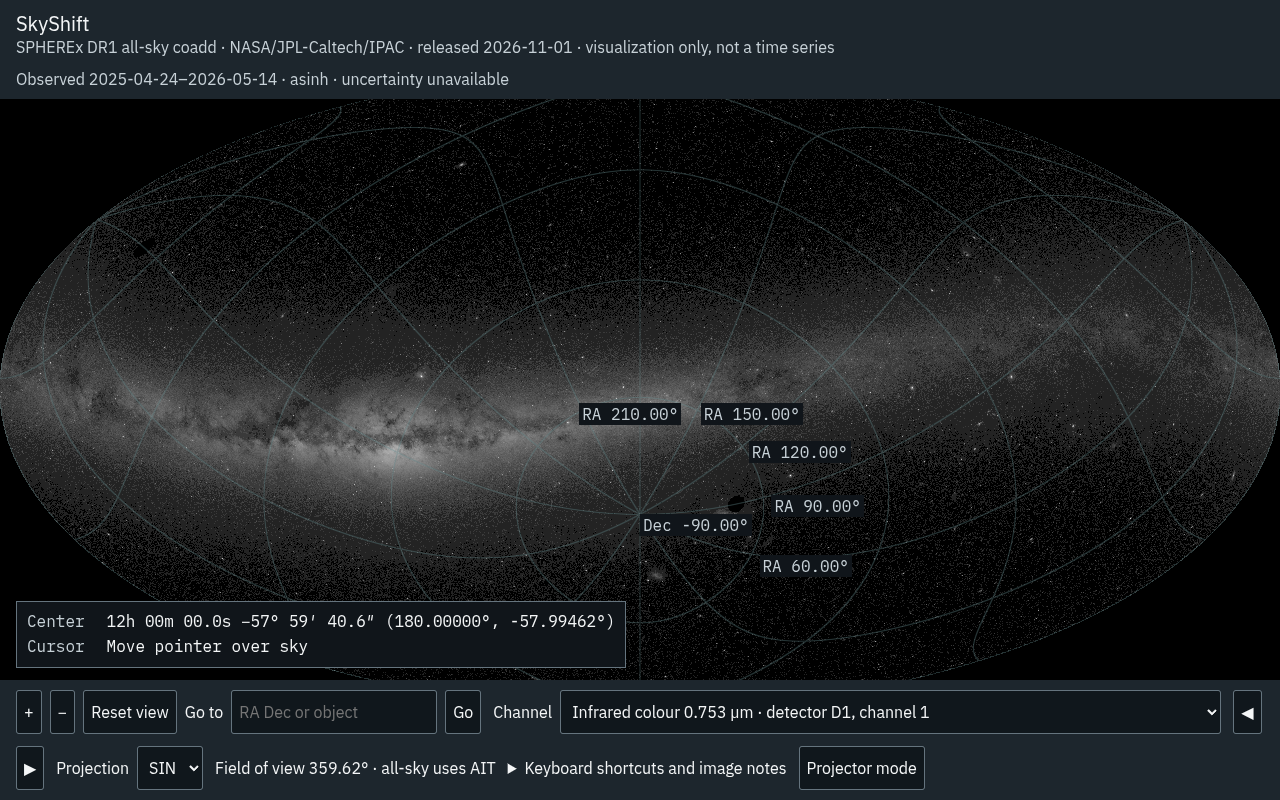
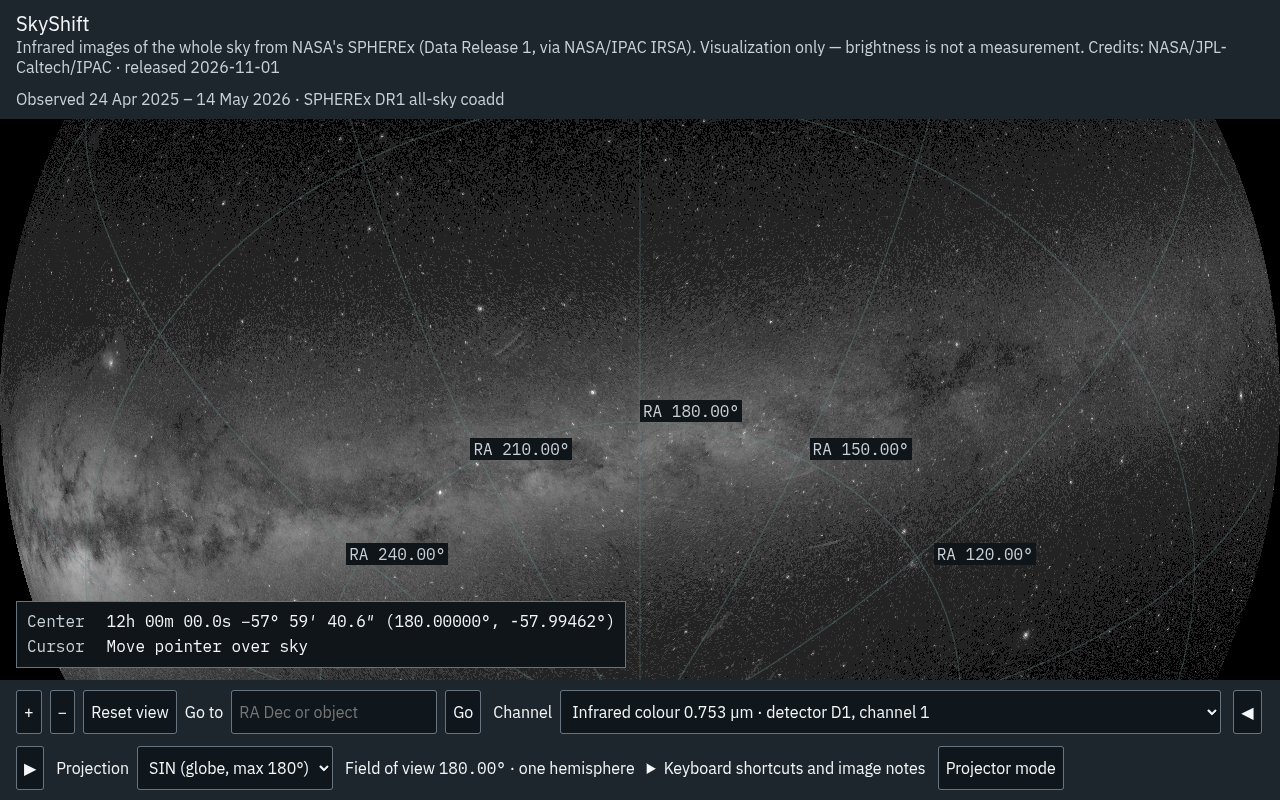
docs: record round-3 navigation behaviour and GPU perf
Update ADR 0007, perf.md (0 duplicate tile URLs, p95 ~16.8 ms) and review screenshots.

diff --git a/docs/adr/0007-motor-cielo-webgl2.md b/docs/adr/0007-motor-cielo-webgl2.md
@@ -1,7 +1,12 @@
 # 0007 · Motor de cielo WebGL2
 
-- Estado: implementación inicial, pendiente de revisión científica y de rendimiento.
+- Estado: navegación ronda 3 (proyección fija, arrastre con punto bajo el puntero, zoom anclado, flyTo, inercia).
 - Contexto: la ficha 0003 requiere HiPS SPHEREx DR1 sin código de Aladin y con una fuente intercambiable.
-- Decisión: usar TypeScript sin dependencias de ejecución en el motor, con núcleo funcional, puertos y adaptadores; React solo presenta el visor. Un arreglo de texturas WebGL2 R8 se indexa por celda HEALPix NESTED y usa padres cuando no está disponible el hijo. El bitmap se cierra tras subirlo; los PNG comprimidos se conservan durante la sesión para evitar descargas repetidas tras el desalojo. IRSA y el proxy implementan el puerto de imágenes cancelables.
-- Extensión: añadir una fuente implementando `TileSource`; añadir una estrategia al registro de proyecciones; parametrizar y verificar metadatos antes de utilizar otra encuesta. La conexión del registro al shader y los parámetros para encuestas distintas aún no están terminados.
-- Consecuencias y límites: ang2pix se comparó con un millón de puntos Astropy; centros y vecinos se compararon para los 12.288 píxeles de orden 5, y esquinas para diez píxeles. SIN no cubre todo el cielo: para FOV mayor de 180° se utiliza temporalmente AIT. La orientación este-izquierda se contrastó con WCS independiente. Faltan cobertura completa de esquinas y órdenes inferiores, selección visible exhaustiva, inercia, prueba de restauración de contexto y revisión de paridad visual. La memoria de PNG comprimidos no tiene límite durante la sesión. El pellizco está implementado pero todavía no se ha probado en dispositivo táctil. Las capturas y métricas no demuestran precisión científica ni paridad visual completa.
+- Decisión: TypeScript sin dependencias de ejecución en el motor; núcleo funcional, puertos y adaptadores; React solo presenta. Texturas WebGL2 R8 indexadas por HEALPix NESTED con padres mientras faltan hijos. IRSA/proxy implementan el puerto cancelable.
+- Navegación (ronda 3):
+  - La proyección **no cambia sola**. SIN es un globo ortográfico: FOV máximo 180° (un hemisferio en disco; fuera del disco = fondo). TAN máx. ~90°. AIT solo si el usuario la elige (hasta 360°).
+  - Arrastre = rotación celeste que mantiene el punto del cielo bajo el puntero (`keepPointUnder`, Newton en RA/Dec con semilla de rotación 3D; sin deltas RA/Dec ni gimbal en polos). Norte arriba se conserva como convención de la cámara.
+  - Zoom de rueda/pellizco anclado al cursor, amortiguado exponencial independiente del frame rate; `+`/`−` al centro. Inercia ~300 ms tras soltar; desactivada con `prefers-reduced-motion`.
+  - API pública: `flyTo({ ra, dec, fov }, { durationMs })` → Promise al llegar; slerp del centro + FOV en log; cancelable por entrada del usuario; emite `viewchange`. Compatible con `setView` / `zoomBy` previos.
+- Extensión: nueva fuente vía `TileSource`; proyecciones vía registro (shader aún con ramas explícitas SIN/TAN/AIT).
+- Consecuencias y límites: fixtures Astropy para HEALPix/proyecciones; orientación este-izquierda contrastada. Faltan intersección exhaustiva de celdas, cobertura completa de esquinas en todos los órdenes y prueba de pellizco en dispositivo real. Memoria PNG de sesión sin tope. Métricas: `docs/reviews/sky-engine/perf.md`.

diff --git a/docs/STATE.md b/docs/STATE.md
@@ -3,8 +3,9 @@
 Actualizado: sáb 14-nov-2026, tarde (UTC−5). Regla: cada sesión de agente o reunión actualiza esto en ≤5 líneas.
 
 ## Ahora
-- **Fase 0 (bases)** en rama `feat/phase0-foundations`: ADR 0006 (dos pistas, caché local→IRSA, Rust/Redis solo si se mide), `contracts/openapi.yaml` v0.1 válido, fichas 0002 (analizador) y 0003 (visor propio, sin Aladin) en borrador; agente físico redacta `docs/context/12`.
-- Datos reales medidos hoy (SIA2): QR3 **sí** tiene datos de Barnard, Eps Indi B, RW Aur y R Dra (ago–oct 2026); WISE 0855 solo DR1. Cada objeto tiene 3–6 pasadas en 13–17 meses.
+- **Pista B / sky-engine** en `feat/sky-engine`: ronda 3 navegación Aladin-like — SIN máx. 180° (disco), sin auto-AIT; arrastre con punto bajo el puntero; zoom anclado + `flyTo`; inercia; tests + smoke GPU (p95 ~16,8 ms, 0 URL duplicadas).
+- **Fase 0 (bases)** también en docs: ADR 0006, `contracts/openapi.yaml` v0.1, fichas 0002/0003; agente físico `docs/context/12`.
+- Datos reales medidos (SIA2): QR3 **sí** tiene datos de Barnard, Eps Indi B, RW Aur y R Dra (ago–oct 2026); WISE 0855 solo DR1. Cada objeto tiene 3–6 pasadas en 13–17 meses.
 - Inventario y brecha frente a IRSA: `docs/context/11-inventario-prototipos-y-brecha-irsa.md`; sin paridad visual ni científica demostrada.
 - Globo celeste experimental propio en `~/Desktop/skyshift-demo/visor-propio.py` (puerto 8767): arrastre, rueda y HiPS órdenes 3–4; faltan orden 5 y serie temporal.
 - Prototipo local de mapa HiPS en `~/Desktop/skyshift-demo/mapa.html`: navegación, λ y celda; usa teselas en línea; comparación temporal para otras regiones pendiente.

diff --git a/docs/reviews/sky-engine/perf.md b/docs/reviews/sky-engine/perf.md
@@ -1,6 +1,6 @@
-# Rendimiento del visor · revisión 1
+# Rendimiento del visor · revisión 3 (navegación)
 
 - Chromium con --use-angle=gl --enable-gpu --ignore-gpu-blocklist: ANGLE (AMD, AMD Radeon 780M Graphics (radeonsi phoenix ACO), OpenGL ES 3.2). Ventana 1280×800; red real IRSA.
-- Fotograma con red sin peticiones activas durante 600 ms y dos cuadros posteriores: frío 4286 ms; caliente 737 ms.
-- Arrastre circular de 5 s y zoom: intervalo p95 16.70 ms; 31 peticiones, 0 URL repetidas, 0 peticiones abortadas.
-- Errores de consola: 0. La medición no incluye el escenario de dos minutos ni calcula el porcentaje de abortos.
+- Fotograma con red sin peticiones activas durante 600 ms y dos cuadros posteriores: frío 3196 ms; caliente 729 ms.
+- Arrastre circular de 5 s y zoom: intervalo p95 16.80 ms; 39 peticiones, 0 URL repetidas, 0 peticiones abortadas.
+- Errores de consola: 0. SIN ya no cambia a AIT; el FOV se acota por proyección.
